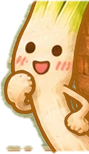
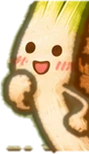
Veggie outlines tinted from their own colors (deep green leaves, warm brown scallion body, dark orange carrot), thicker; peek egg starts rising when the card is 55% visible

Changed region(s): [[0.6966, 0.0, 1.0, 0.9091], [0.0225, 0.0, 0.6742, 1.0], [0.0674, 0.961, 0.382, 0.987]]

diff --git a/src/app/preview/visual/ComicLayer.tsx b/src/app/preview/visual/ComicLayer.tsx
@@ -149,7 +149,7 @@ function Panel({ p, k, opacity, exitShift, seamProgress, place }: { p: PanelSpec
  * （DOM 里排在格子前面 = 画在格子后面），位置按格子的 pos / dy 算（vw / vh）。
  * 纵深：① 蛋在墙上的投影（drop-shadow，蛋离开墙面一点）；② 格子在蛋身上的投影（同一张图压暗、按高度渐隐，
  *   贴着格子上沿最深）——两层一起，蛋和后面的背景就分开了。
- * 探头：向右倾 PEEK.tilt 度（身体朝角外探），0 → 探出 1.8 s 缓出，离场 0.3 s 缩回；探出后轻微起伏。
+ * 探头：向右倾 PEEK.tilt 度（身体朝角外探），0 → 探出 1.4 s 缓出（格子可见 55% 就开始，不等入场结束），离场 0.3 s 缩回；探出后轻微起伏。
  */
 const PERCH_PANEL = "p1b"; // bag 段右侧小格：上方没有别的格子，蛋有地方；也就是“袋子”那格
 const PEEK = { cx: 0.64, width: 0.5, aspect: 1.5651, tilt: 6, sink: 0.045 };
@@ -171,7 +171,7 @@ function PerchEgg({ pos, dy, show }: { pos: Place; dy: number; show: boolean }) 
         transformOrigin: "50% 100%",
         opacity: show ? 1 : 0,
         transition: show
-          ? "transform 1.8s cubic-bezier(0.22, 0.8, 0.28, 1), opacity 0.5s ease-out"
+          ? "transform 1.4s cubic-bezier(0.22, 0.8, 0.28, 1), opacity 0.4s ease-out"
           : "transform 0.3s ease-in, opacity 0.25s ease-in 0.1s",
       }}
     >
@@ -403,7 +403,7 @@ function FlowLayer() {
         const perch = p.key === PERCH_PANEL && !vp.portrait;
         return (
           <Fragment key={p.key}>
-            {perch && <PerchEgg pos={pos} dy={dy} show={stage.entered && !stage.leaving} />}
+            {perch && <PerchEgg pos={pos} dy={dy} show={stage.vis > 0.55 && !stage.leaving} />}
             {wrap ? <div style={wrap}>{panel}</div> : panel}
             <PanelSignal k={p.key} q={q} stage={stage} />
           </Fragment>

diff --git a/tools/prepare_planes.py b/tools/prepare_planes.py
@@ -106,40 +106,53 @@ def fill_rows(img: np.ndarray, hole: np.ndarray, usable: np.ndarray, feather: in
     return out
 
 
-# 蛋是金色细线描边，胡萝卜和葱的深棕黑墨线跟它不是一个画风（2026-11-15 用户：蛋的边不动，蔬菜的边改成跟本色相配的暖色）。
-# 只换大块的墨线（轮廓），小块（眼睛、嘴）保持深色。区域是图片像素 (x0, y0, x1, y1)，颜色 RGB。
-# 取自蛋图外沿（public/assets/scene/egg.webp 边缘像素中位数 ≈ (177,103,14)，深的一半 (167,93,5)）：蛋、葱、胡萝卜描边同一个金棕色
-EGG_INK = (168, 96, 10)
-INK_RECOLOR = [
-    ((1445, 425, 1565, 505), EGG_INK),  # 胡萝卜身子和手
-    ((1445, 320, 1565, 425), EGG_INK),  # 胡萝卜叶子
-    ((1296, 519, 1400, 710), EGG_INK),  # 葱身子
+# 蛋是金棕色细线描边，胡萝卜和葱原来是深棕黑的粗墨线，不是一个画风（2026-11-15 用户：蛋的边不动；蔬菜的描边要和各自本来的颜色相近、粗细和蛋差不多）。
+# 做法：大块的墨线（轮廓，面积 ≥ min_area；眼睛、嘴是小块，保持深色）加粗 1 像素，每个轮廓像素取最近的“非墨线”像素的颜色，
+# 压暗、略加饱和——绿叶的轮廓是深绿，白的葱身是暖棕，橙色胡萝卜是深橙。区域是图片像素 (x0, y0, x1, y1)。
+INK_BOXES = [
+    (1445, 320, 1565, 505),  # 胡萝卜（叶子 + 身子 + 手）
+    (1296, 519, 1400, 710),  # 葱身子
 ]
-LEAVES_PNG = ROOT / "public/assets/bg/friends-scallion-leaves.png"  # 葱叶角色层（tools/prepare_friends.py 生成，这里再换一次墨线色）
-LEAVES_COLOR = EGG_INK
+LEAVES_SRC = ROOT / "source/bg-v3/friends-scallion-leaves.orig.png"  # 葱叶角色层原图（tools/prepare_friends.py 的输出备份）
+LEAVES_PNG = ROOT / "public/assets/bg/friends-scallion-leaves.png"
+INK_DARKEN, INK_SAT = 0.5, 1.4
 
 
-def recolor_ink(rgb: np.ndarray, box: tuple[int, int, int, int], color: tuple[int, int, int], min_area: int = 800) -> np.ndarray:
-    x0, y0, x1, y1 = box
-    sub = rgb[y0:y1, x0:x1].astype(np.float32)
-    lum = cv2.cvtColor(rgb[y0:y1, x0:x1], cv2.COLOR_RGB2GRAY).astype(np.float32)
-    hue = cv2.cvtColor(rgb[y0:y1, x0:x1], cv2.COLOR_RGB2HSV)[..., 0] * 2
-    ink = (lum <= INK) & ~((hue >= 60) & (hue <= 170))  # 绿色的暗块（叶子阴影、补墙的模糊）不是墨线
+def tinted_ink(rgb: np.ndarray, alpha: np.ndarray | None = None, min_area: int = 800) -> np.ndarray:
+    """返回墨线换成“本色深色”后的 rgb（只改大块墨线）。alpha 给了就只看 alpha > 128 的像素（透明背景的角色图）。"""
+    lum = cv2.cvtColor(rgb, cv2.COLOR_RGB2GRAY).astype(np.float32)
+    hue = cv2.cvtColor(rgb, cv2.COLOR_RGB2HSV)[..., 0] * 2
+    greenish = (hue >= 60) & (hue <= 170)
+    ink = (lum <= INK) & ~greenish
+    if alpha is not None:
+        ink &= alpha > 128
     lab, n = ndimage.label(ink)
     sizes = ndimage.sum(np.ones_like(lab), lab, range(1, n + 1))
     keep = np.isin(lab, [i + 1 for i, a in enumerate(sizes) if a >= min_area])
-    near = ndimage.binary_dilation(keep, iterations=2) & ~((hue >= 60) & (hue <= 170))
-    w = np.clip((150 - lum) / 90, 0, 1) * near
-    out = sub * (1 - w[..., None]) + np.array(color, np.float32) * w[..., None]
-    res = rgb.copy()
-    res[y0:y1, x0:x1] = np.clip(out, 0, 255).astype(np.uint8)
-    return res
+    outer = ndimage.binary_dilation(keep, iterations=2)
+    if alpha is not None:
+        outer &= alpha > 0
+    iy, ix = ndimage.distance_transform_edt(outer | (lum <= INK), return_distances=False, return_indices=True)
+    fill = cv2.GaussianBlur(rgb[iy, ix], (7, 7), 0).astype(np.float32)
+    hsv = cv2.cvtColor(fill.astype(np.uint8), cv2.COLOR_RGB2HSV).astype(np.float32)
+    hsv[..., 1] = np.clip(hsv[..., 1] * INK_SAT + 25, 0, 255)
+    hsv[..., 2] = hsv[..., 2] * INK_DARKEN
+    tint = cv2.cvtColor(hsv.astype(np.uint8), cv2.COLOR_HSV2RGB).astype(np.float32)
+    w = cv2.GaussianBlur(outer.astype(np.float32), (3, 3), 0)[..., None]
+    return np.clip(rgb.astype(np.float32) * (1 - w) + tint * w, 0, 255).astype(np.uint8)
 
 
 def soften_ink(rgb: np.ndarray) -> np.ndarray:
-    for box, color in INK_RECOLOR:
-        rgb = recolor_ink(rgb, box, color)
-    return rgb
+    out = rgb.copy()
+    for x0, y0, x1, y1 in INK_BOXES:
+        out[y0:y1, x0:x1] = tinted_ink(rgb[y0:y1, x0:x1])
+    return out
+
+
+def tint_leaves() -> None:
+    a = np.asarray(Image.open(LEAVES_SRC).convert("RGBA"))
+    out = tinted_ink(a[..., :3], a[..., 3])
+    Image.fromarray(np.dstack([out, a[..., 3]])).save(LEAVES_PNG, optimize=True)
 
 
 def classify(rgb: np.ndarray) -> tuple[np.ndarray, dict]:
@@ -257,6 +270,7 @@ def main() -> None:
     # 每个像素只属于一张切片（按位置硬分），透明度都来自整体羽化后的同一张 alpha，所以切片之间没有接缝
     # （各自羽化再叠会在分界线上露出底下的墙，是一条亮线）
     rgb = soften_ink(rgb)
+    tint_leaves()
     yy, xx = np.mgrid[0:H, 0:W]
     full = cv2.GaussianBlur(objects.astype(np.float32), (3, 3), 0)
     part = full > 0
